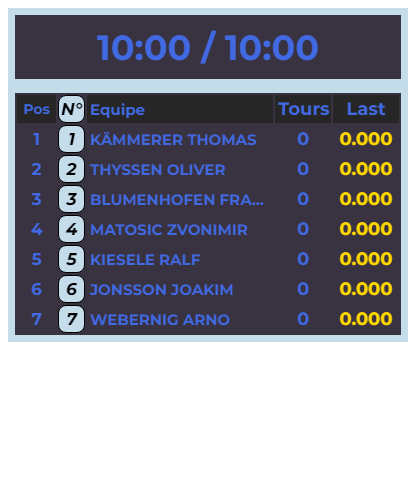
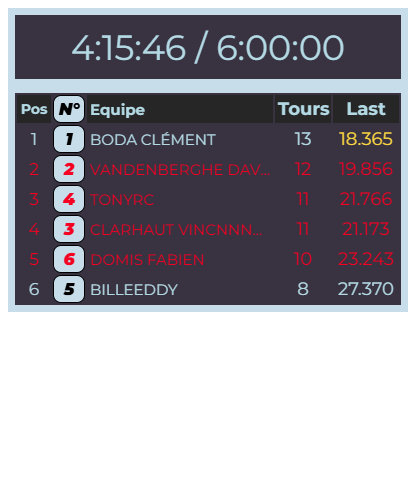
forcing Edge as html2image browser

diff --git a/Live_timing_script/Style.css b/Live_timing_script/Style.css
@@ -1,6 +1,6 @@
 table {
   table-layout: fixed;
-  width: 900px;
+  width: 400px;
   /* height: 460px;; */
   font-family: Montserrat;
   font-size: 18px;
@@ -48,17 +48,17 @@ td:nth-child(1) {
 
 th:nth-child(2),
 td:nth-child(2) {
-  width: 40px;
+  width: 30px;
   /* Colonne du numéro de voiture */
   font-family: Montserrat Black;
-  color: lightblue;
+  color: black;
   font-style: italic;
   font-size: 17px;
   text-align: center;
   border-radius: 8px;
   padding: 0px;
   margin: 0px;
-  /*background-color: #C5DCEB;$/
+  background-color: #C5DCEB;
   /* Fond gris transparent */
   border: 1px solid black;
 }
@@ -75,6 +75,7 @@ td:nth-child(3) {
 }
 
 
+
 th:nth-child(4),
 td:nth-child(4) {
   width: 50px;
@@ -88,20 +89,8 @@ td:nth-child(5) {
   /* color: red; */
   /* Colonne du meilleur temps */
 }
-td:nth-child(6) {
-  width: 60px;
-  /* color: red; */
-  /* Colonne du meilleur temps */
-}
-td:nth-child(7) {
-  width: 60px;
-  /* color: red; */
-  /* Colonne du meilleur temps */
-}td:nth-child(8) {
-  width: 90px;
-  /* color: red; */
-  /* Colonne du meilleur temps */
-}
+
+
 img {
   height: 25px;
 }

diff --git a/Live_timing_script/generateHTML_EFRA_Comment.py b/Live_timing_script/generateHTML_EFRA_Comment.py
@@ -52,37 +52,53 @@ def getPilotStatTable(pilot:Pilot, baseLogoPath:Path):
         </tr>"
 
 
-def getHeaderRanking(RaceTime="", showBestLap=False):
+def getHeaderRanking(RaceTime="", showBestLap=False, extended=False):
     tab_htmlbody = '<!DOCTYPE html><html>'
-    tab_htmlbody += '<head><title>Page Title</title><meta http-equiv="refresh" content="1">'
+    tab_htmlbody += '<head><title>Page Title</title><meta http-equiv="refresh" content="2">'
     tab_htmlbody += '<head>'
     tab_htmlbody += '<meta charset="UTF-8">'
     # tab_htmlbody +=  "<script>function autoRefresh() {window.location = window.location.href;}setInterval('autoRefresh()', 300);</script>"
     tab_htmlbody += '<link href="style.css" rel="stylesheet">'
     tab_htmlbody += '</head>'
 
-    tab_entete = '<body><table><thead><tr><td colspan="5" style="height: 60px;font-size: 35px;font-family: Montserrat;">'+RaceTime+'</td></tr></body></table></thead>'
+    tab_entete = '<body><table><thead><tr><td colspan="8" style="height: 60px;font-size: 35px;font-family: Montserrat;">'+RaceTime+'</td></tr></body></table></thead>'
     
     tab_entete += '<body><table><thead>'
     #POS / CAR / TEAM ( Logo + LibTeam ) / NbTour / PrevTrs / Best / Med / Rythme 5' / Rythme 1h  
-    tab_entete += f"<tr><th>Pos</th>\
+    tab_entete += f"<tr><th></th>\
         <th>N°</th>\
-        <th>Equipe</th>\
+        <th>Pilote</th>\
         <th>Tours</th>\
-        <th>{"Best" if showBestLap else "Last"}</th>\
+        <th>Last</th>\
+        <th>Best</th>\
+        <th>Ecart</th>\
+        <th>Prevision</th>\
         </tr>"
     tab_entete += '</thead><tbody>'
     tab_htmlbody += tab_entete
 
     return tab_htmlbody
 
-def getPilotRanking(pilot:Pilot, showBestLap=False,):
+def getPilotRanking(pilot:Pilot, showBestLap=False, showPilotCountryFlag=False, extended=False):
     style = 'style="color: red;"' if pilot.newPosition else ''
     lapTimeStyle = 'style="color: gold;"' if pilot.newBest else style
-    return f'<tr>\
+    NumberStyle = f'style="color: #fff;text-shadow:\
+            1px 1px 0 #000,\
+            -1px 1px 0 #000,\
+            -1px -1px 0 #000,\
+            1px -1px 0 #000;\
+        background-size: 100% 100%;\
+        background-image: url(Ressources/{pilot.countryicon});"' if showPilotCountryFlag else style
+
+    output = f'<tr>\
         <td {style}>{pilot.position+1}</td>\
-        <td {style}>{pilot.vehicle}</td>\
+        <td {NumberStyle}>{pilot.vehicle}</td>\
         <td {style}>{pilot.pilot.upper()}</td>\
-        <td {style}>{pilot.laps}</td>\
-        <td {lapTimeStyle}>{pilot.besttime_s if showBestLap else pilot.laptime_s:0.3f}</td>\
-        </tr>'
+        <td {style}>{pilot.laps}</td>'
+    if extended:
+        output+=f'<td {style}>{pilot.laptime_s:0.3f}</td>\
+        <td {style}>{pilot.besttime_s:0.3f}</td>\
+        <td {style}>{pilot.delaytimeprevious}</td>\
+        <td {style}>{pilot.forecast}</td>'
+
+    return output+'</tr>'

diff --git a/Live_timing_script/Timming.py b/Live_timing_script/Timming.py
@@ -25,7 +25,7 @@ from ImgGenerator import *
 
 def htmlToPng(html_string=None, html_file=None, css_file="Style.css", FilePath=None, size=(1300,1280)):
     try:
-        hti = Html2Image(size=size, output_path=Path(FilePath).parent.as_posix(), disable_logging=True)
+        hti = Html2Image(size=size, output_path=Path(FilePath).parent.as_posix(), disable_logging=True, browser="Edge")
 
         if html_string is not None:
             hti.screenshot(html_str=html_string, css_file=css_file, save_as=Path(FilePath).name)   
